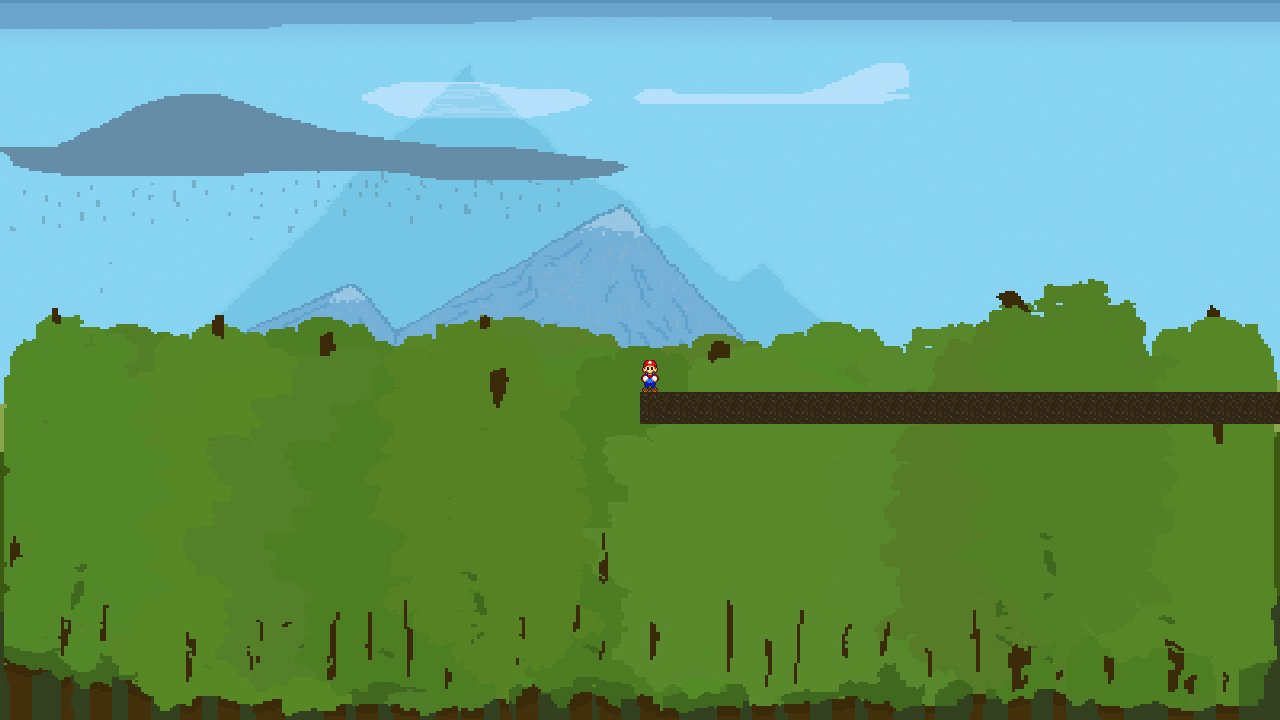
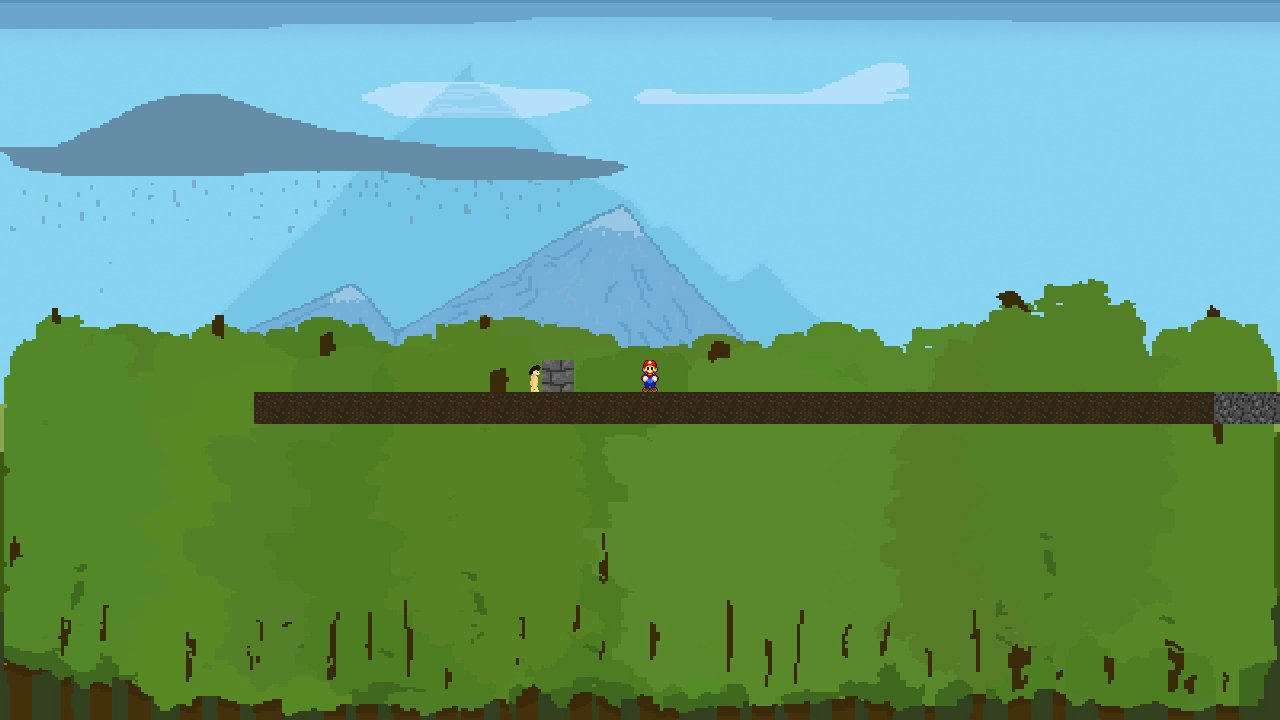
версия 1. конец учебного года.

Changed region(s): [[0.1875, 0.4889, 0.5, 0.6111], [0.9375, 0.5194, 1.0, 0.6111]]

diff --git a/main.py b/main.py
@@ -30,12 +30,12 @@ def main(save=False):
     screen = pygame.display.set_mode(DISPLAY)  # Создаем окошко
     pygame.display.set_caption("Game")  # Пишем в шапку
     bg = Surface((WIN_WIDTH, WIN_HEIGHT))  # Создание видимой поверхности
-    # будем использовать как фон
     bg.fill(Color(BACKGROUND_COLOR))  # Заливаем поверхность сплошным цветом
     bgbl = image.load('textures//background//background.jpg').convert(24)
     skale = transform.scale(bgbl, (WIN_WIDTH, WIN_HEIGHT))  # background image
     setttings_menu = False
-    block_num = 1  # draw map
+
+    block_num = 1
     npc_one = npc.Npc(100, 0)  # 1 npc
     chank_one = generator.Mymap(1)  # 1 chanck
     massiv_map = chank_one.chank_mass(20)
@@ -45,11 +45,12 @@ def main(save=False):
             n.line_y(29 - e, 3 + i)
 
     hero = Player(0, 0)  # создаем героя по (x,y) координатам
+
     left = right = False  # по умолчанию - стоим
     up = False
+
     entities = pygame.sprite.Group()  # Все объекты
     platforms = []  # то, во что мы будем врезаться или опираться
-
     entities.add(hero)
     entities.add(npc_one)
     # Save File

diff --git a/npc.py b/npc.py
@@ -10,8 +10,8 @@ mixer.init()
 
 
 MOVE_SPEED = 1
-WIDTH = 64
-HEIGHT = 64
+WIDTH = 22
+HEIGHT = 32
 COLOR = "#888888"
 JUMP_POWER = 5.25
 GRAVITY = 0.35  # Сила, которая будет тянуть нас вниз
@@ -22,7 +22,10 @@ ANIMATION_RIGHT = [('%s/mario/chaster_1.png' % ICON_DIR),
                    ('%s/mario/chaster_2.png' % ICON_DIR),
                    ('%s/mario/chaster_3.png' % ICON_DIR),
                    ('%s/mario/chaster_4.png' % ICON_DIR),
-                   ('%s/mario/chaster_5.png' % ICON_DIR)]
+                   ('%s/mario/chaster_5.png' % ICON_DIR),
+                   ('%s/mario/chaster_6.png' % ICON_DIR),
+                   ('%s/mario/chaster_7.png' % ICON_DIR),
+                   ('%s/mario/chaster_8.png' % ICON_DIR)]
 
 ANIMATION_LEFT = [('%s/mario/l1.png' % ICON_DIR),
                   ('%s/mario/l2.png' % ICON_DIR),

diff --git a/generator.py b/generator.py
@@ -1,7 +1,7 @@
 import numpy as np
 
 
-class Mymap():
+class Mymap:
     """
     генератор карт
     """
